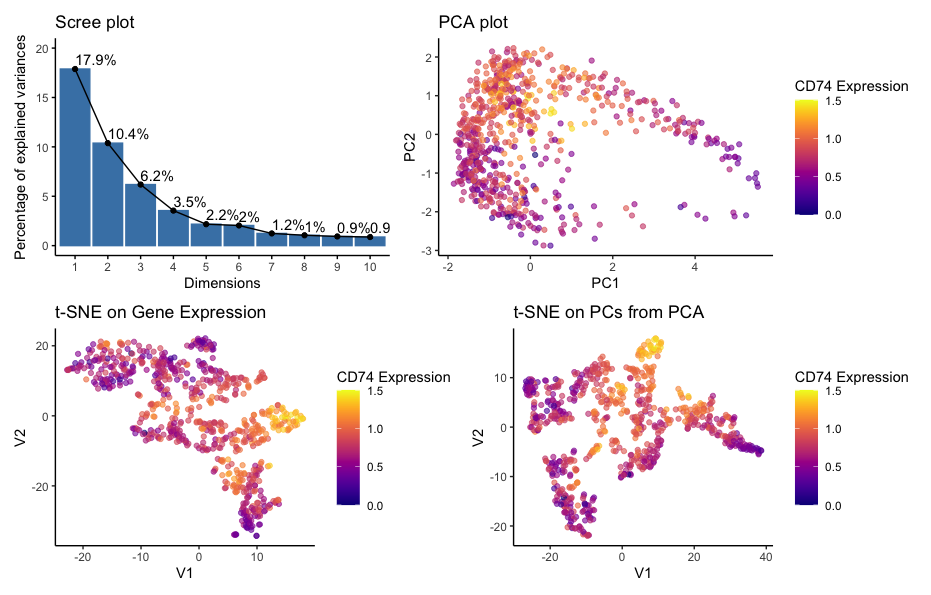
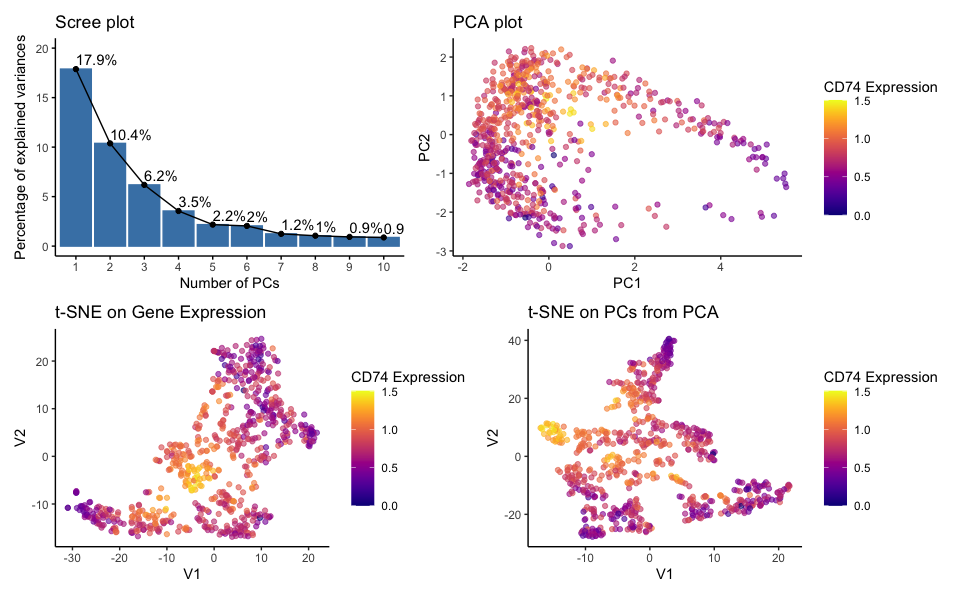
Update

diff --git a/_posts/2024-02-05-szhan128.md b/_posts/2024-02-05-szhan128.md
@@ -74,7 +74,7 @@ cd74 <- gexp_norm$CD74
 
 # scree plot 
 #ref: https://www.rdocumentation.org/packages/factoextra/versions/1.0.7/topics/eigenvalue
-p1 <- fviz_eig(pcs, addlabels = TRUE, ylim = c(0, 20), ggtheme = theme_classic())
+p1 <- fviz_eig(pcs, addlabels = TRUE, ylim = c(0, 20), ggtheme = theme_classic(), xlab = "Number of PCs")
 
 #  Plot CD74 expression on PC1 vs PC2 
 p2 <- ggplot(df_pcs, aes(x = PC1, y = PC2, col = cd74)) +
